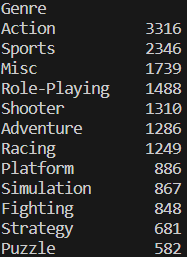
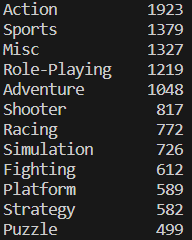
kesimpulan tapi masih ada yang harus di revisi

diff --git a/README.md b/README.md
@@ -25,7 +25,7 @@ Berikut adalah penjelasan untuk setiap kolom pada dataset ini:
 ---
 
 ## Pertanyaan
-1. 10 Game dengan penjualan terbanyak?
+1. Game dengan penjualan terbanyak?
 2. Genre game yang paling banyak dibuat?
 3. Platform yang paling banyak memiliki game?
 4. Publisher dengan penjualan terbanyak?
@@ -81,7 +81,7 @@ Dari hasil diatas didapat 10 besar game dengan total penjualan terbanyak dimana 
 ---
 
 ### Mancari genre game yang paling banyak dibuat
-Pada proses ini, untuk mencari jumlah genre yang paling banyak dibuat, pertama saya melakukan pengelompokan data berdasarkan genre dan menghitung jumlah elemen dari kelompok genre tersebut dengan kode `.groupby("Genre").size()`. 
+Pada proses ini, untuk mencari jumlah genre yang paling banyak dibuat, pertama saya melakukan penghapusan untuk nama game yang sama(duplikat) dengan cara `df.drop_duplicates(subset='Name')`. Selanjutnya saya menhitung setiap genre pada kolom Genre dengan metode `.value_counts()`.
 
 ![topgenre](pic/7%20Hasil%20Sort%20Genre%20High%20to%20Low.png)
 ![topgenrechart](pic/8.%20Grafik%20Genre.png)
@@ -156,4 +156,18 @@ Dari hasil diatas dapat disimpulkan untuk region dengan total penjualan game ter
 
 ### Mencari tahun dengan penjualan game terbanyak diseluruh dunia
 
+Untuk mencari tahun dengan penjualan tertinggi, langkah pertama yang sama lakukan adalah mengelompokan kolom Year terlebih dahulu lalu menjumlahkan kolom Global_Sales. Berikut kodenya `df.groupby('Year')['Global_Sales'].sum()`.
+
+![topyearsell](pic/14.1%20topsellallyear.png)
+![graphtopyearsell](pic/14.%20Diagram%20Garis.png)
+
+Dari gambar diatas untuk tahun dengan penjualan terbanyak adalah tahun 2008.
+
+---
+
+### Kesimpulan
+
+Dari proses yang saya lakukan dapat disimpulkan untuk game dengan total penjualan terbanyak adalah Wii Sports dengan total 82.74 juta, lalu untuk genre yang paling banyak dibuat dari tahun 1980-2020 adalah Action yaitu sebanyak 1923 game.
+
 SOON!!!
+(Revisi platform nanti)
